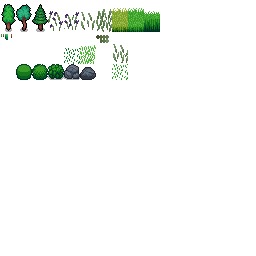
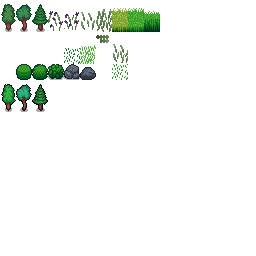
Fixes terrain generation

Changed region(s): [[0.0, 0.3125, 0.1875, 0.4375], [0.0, 0.0, 0.1875, 0.125], [0.0, 0.125, 0.0312, 0.1562]]

diff --git a/src/fast_tilemap.cpp b/src/fast_tilemap.cpp
@@ -57,6 +57,7 @@ void FastTileMap::_bind_methods() {
 	ClassDB::bind_method(D_METHOD("set_cells", "cellPositions", "config"), &FastTileMap::set_cells);
 	ClassDB::bind_method(D_METHOD("clear_cells"), &FastTileMap::clear_cells);
 	ClassDB::bind_method(D_METHOD("set_cells_autotile", "cellPositions", "config", "totalPos"), &FastTileMap::set_cells_autotile);
+	ClassDB::bind_method(D_METHOD("set_terrain_cells", "cellPositions", "config"), &FastTileMap::set_terrain_cells);
 }
 
 FastTileMap::FastTileMap() {
@@ -120,6 +121,20 @@ void FastTileMap::set_cells_autotile(Array cellPositions, Dictionary config, Arr
         Vector2 variant = get_autotile_variant(cellPos, position_set) + atlas;
         set_cell(cellPos, variant, texture, z_index);
     }
+}
+
+void FastTileMap::set_terrain_cells(Array cellPositions, Dictionary config) {
+	Vector2 base_atlas = config["atlas"];
+	Ref<Texture2D> texture = config["texture"];
+	int z_index = config["z_index"];
+	Vector2 offset = config["offset"];
+	Vector2 size = config["size"];
+	
+	for (int i = 0; i < cellPositions.size(); i++) {
+		Vector2i cellPos = cellPositions[i];
+		Vector2i atlas = base_atlas + Vector2i(cellPos.x % 3, cellPos.y % 3);
+		set_cell(cellPos, atlas, texture, z_index, offset, size);
+	}
 }
 
 Vector2 FastTileMap::get_autotile_variant(Vector2 cellPos, const std::unordered_set<Vector2>& position_set) {

diff --git a/src/fast_tilemap.h b/src/fast_tilemap.h
@@ -40,6 +40,7 @@ public:
     void set_cells(Array cellPositions, Dictionary config);
     void clear_cells();
     void set_cells_autotile(Array cellPositions, Dictionary config, Array totalPos);
+    void set_terrain_cells(Array cellPositions, Dictionary config);
     Vector2 get_autotile_variant(Vector2 cellPos, const std::unordered_set<Vector2>& position_set);
 };
 
